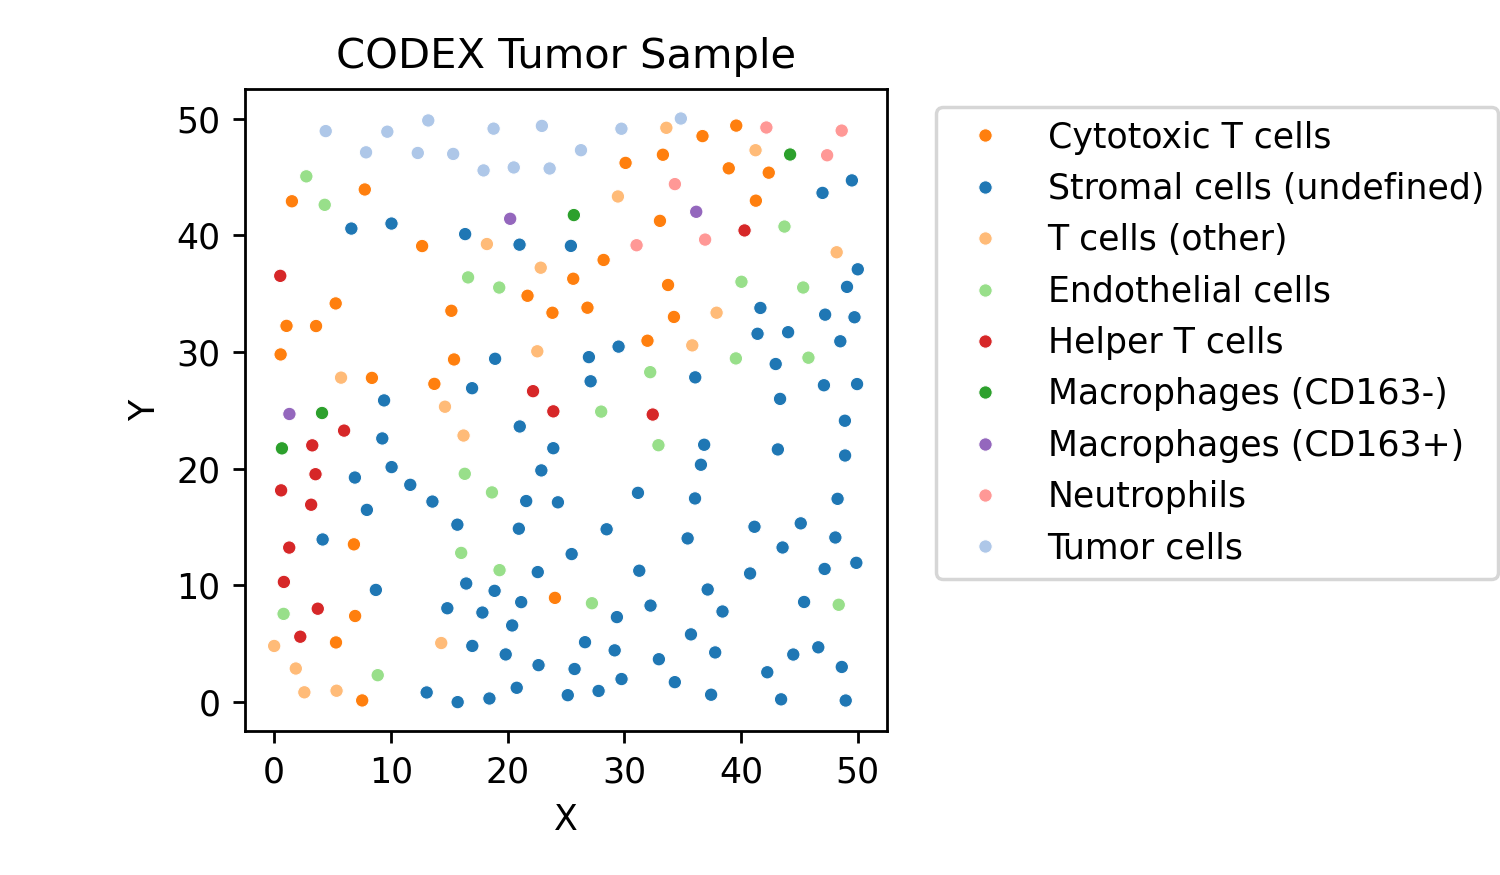
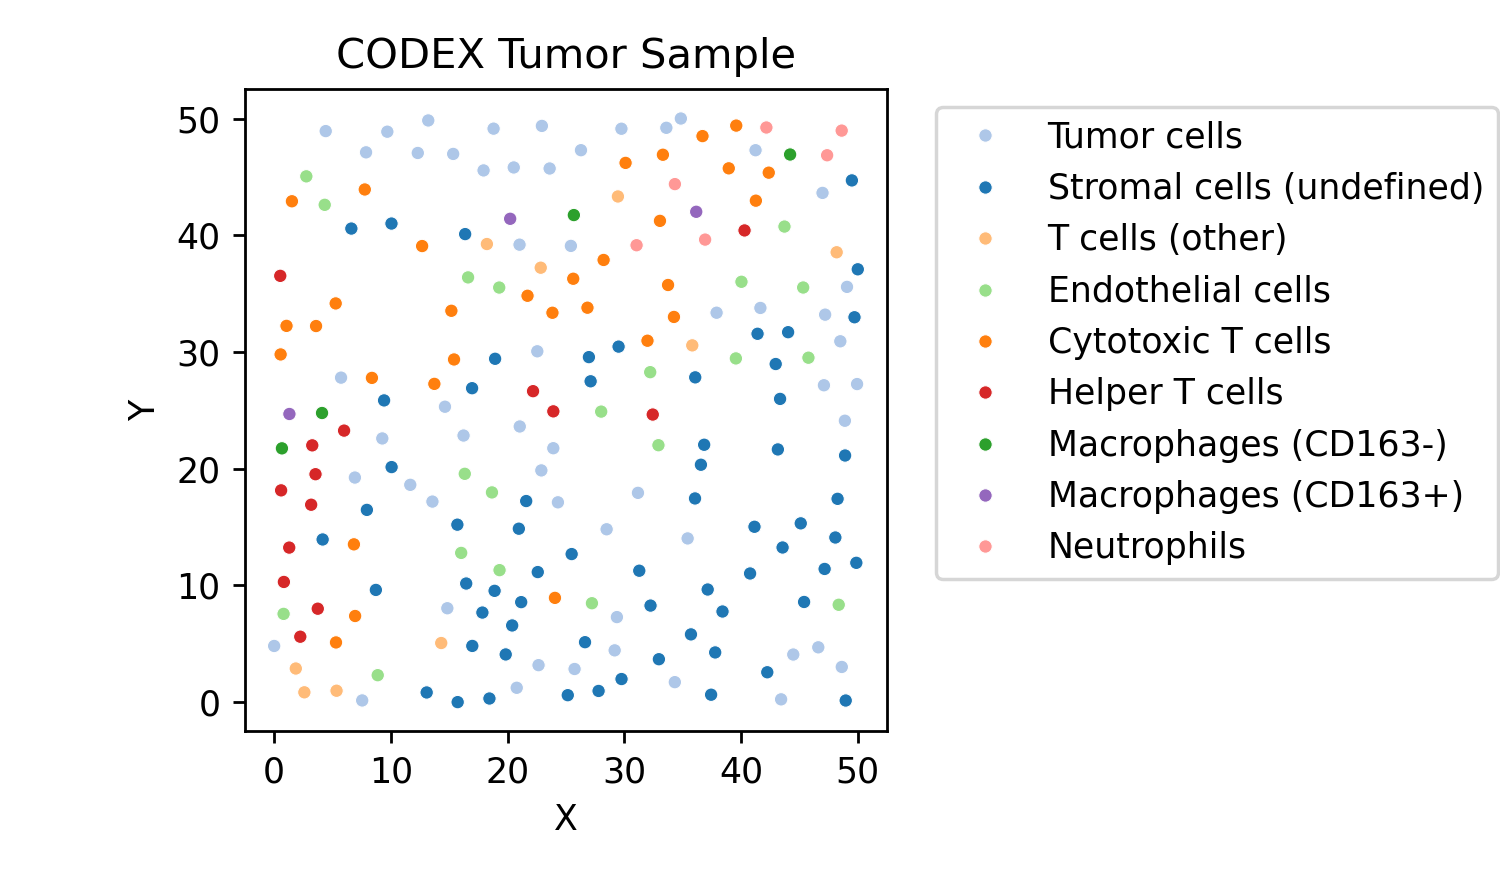
Update Figure 7 with bug fixed

diff --git a/main_figures/Fig7/Fig7.py b/main_figures/Fig7/Fig7.py
@@ -13,6 +13,13 @@ script_dir = os.path.dirname(os.path.abspath(__file__))
 
 import simspace as ss
 
+SIMSPACE_EXPECTED_VERSION = "0.4.1"
+if ss.__version__ != SIMSPACE_EXPECTED_VERSION:
+    raise RuntimeError(
+        f"Figure 7 requires SimSpace {SIMSPACE_EXPECTED_VERSION}; "
+        f"found {ss.__version__} at {ss.__file__}."
+    )
+
 Marker_list = [
     'DAPI', 'MPO', 'Ecadherin', 'PDL1', 'CD163', 'PD1', 'CD47', 
     'GAL3', 'PARP1', 'LAG3', 'CD4', 'PI3KCA', 'TIM3', 'CD68', 
@@ -35,15 +42,24 @@ sim.fit_scdesign(
     'X_centroid',
     'Y_centroid',
     seed=0,
+    family='gaussian',
 )
 
-cells = pd.read_csv(f"{script_dir}/Panel_A_B_C_data/CODEX_ref.csv")
+simulated_intensities = sim.omics.to_numpy(dtype=float)
+if not np.isfinite(simulated_intensities).all():
+    raise RuntimeError("Simulated CODEX marker intensities contain non-finite values.")
+if (simulated_intensities < 0).any():
+    raise RuntimeError("Simulated CODEX marker intensities contain negative values.")
+if not (np.abs(simulated_intensities - np.rint(simulated_intensities)) > 1e-8).any():
+    raise RuntimeError("Continuous CODEX simulation unexpectedly produced only integer values.")
+
+cells = pd.read_csv(f"{script_dir}/Panel_A_B_C_data/CODEX_meta.csv")
+cells['cell_type'] = cells['phenotype']
 cell_counts = cells['cell_type'].value_counts()
 ranked_cell_types = {cell_type: rank for rank, cell_type in enumerate(cells['cell_type'].value_counts().index, 1)}
 cells['celltype_rank'] = cells['cell_type'].map(ranked_cell_types)
 cells['x_centroid'] = 50 * (cells['centroid_x'] - cells['centroid_x'].min()) / (cells['centroid_x'].max() - cells['centroid_x'].min())
 cells['y_centroid'] = 50 * (cells['centroid_y'] - cells['centroid_y'].min()) / (cells['centroid_y'].max() - cells['centroid_y'].min())
-cells['cell_type'] = cells['cell_type'].replace('CD4+ T cells', 'Helper T cells')
 # Get unique cell types from both sim.meta['fitted_celltype'] and cells['phenotype']
 sim_celltypes = sim.meta['fitted_celltype'].unique()
 # cells_celltypes = cells['phenotype'].unique()
@@ -67,7 +83,7 @@ plt.gca().set_aspect('equal')
 plt.legend(bbox_to_anchor=(1.05, 1), loc='upper left')
 plt.title('SimSpace Simulation')
 plt.tight_layout()
-plt.show()
+plt.savefig(f'{script_dir}/Fig7_Panel_A4.png')
 
 plt.figure(figsize=(6, 3.5), dpi=250)
 sns.scatterplot(
@@ -96,13 +112,13 @@ plt.xlabel('X')
 plt.ylabel('Y')
 plt.gca().set_aspect('equal')
 plt.legend(bbox_to_anchor=(1.05, 1), loc='upper left')
-plt.title('PD1 Marker Expression')
+plt.title('PD1 Marker Intensity')
 plt.tight_layout()
 plt.savefig(f'{script_dir}/Fig7_Panel_A2.png')
 
 ss.plot.plot_gene(
     sim.meta, sim.omics['PD1'], size=14, 
-    figsize=(5,5), dpi=300, title='PD1 Marker Expression',)
+    figsize=(5,5), dpi=300, title='PD1 Marker Intensity',)
 plt.savefig(f'{script_dir}/Fig7_Panel_A3.png', bbox_inches='tight', dpi=300)
 
 
@@ -118,13 +134,18 @@ hm_data = hm_data.reindex(sorted(hm_data.columns), axis=1)
 hm_data = hm_data.reindex(sorted(hm_data.index), axis=0)
 
 # make all diagonal elements NA for hm_data
-hm_arr = hm_data.to_numpy(copy=True)
-np.fill_diagonal(hm_arr, np.nan)
+hm_plot_values = hm_data.to_numpy(copy=True)
+np.fill_diagonal(hm_plot_values, np.nan)
+hm_plot = pd.DataFrame(
+    hm_plot_values,
+    index=hm_data.index,
+    columns=hm_data.columns,
+)
 
 # plot na as gray
 plt.figure(figsize=(7,7), dpi=250)
-sns.heatmap(hm_arr, annot=True, cmap='viridis', vmin=0, fmt='.2g', 
-            mask=np.eye(hm_arr.shape[0], dtype=bool), 
+sns.heatmap(hm_plot, annot=True, cmap='viridis', vmin=0, fmt='.2g',
+            mask=np.eye(hm_plot.shape[0], dtype=bool),
             cbar_kws={'label': 'Interaction Strength'}, square=True, 
             linewidths=0, linecolor='black')
 plt.xlabel('Cell Type')

diff --git a/main_figures/Fig7/Fig7_README.md b/main_figures/Fig7/Fig7_README.md
@@ -1,54 +1,70 @@
 # Figure 7
 
-This folder contains everything needed to reproduce the code-generated panels in **Figure 7**, including panel-specific data and (when needed) panel-specific external code.
-
----
-
-## Contents
-
-- `Fig7.py`  
-  Entry script to reproduce Figure 7 (generates the figure and/or panel outputs).
-
-- `Panel_A_B_C_data/`  
-  Inputs and/or cached intermediates required for **Panel A, B, C**.
----
+This directory reproduces the code-generated panels for Figure 7. The final
+multi-panel manuscript figure is assembled manually from these outputs.
 
 ## Environment
 
-### Default (SimSpace)
-Most of Figure 7 should run in the default environment:
+Figure 7 requires SimSpace 0.4.1 because this version adds continuous-intensity
+support to the scDesign3 adapter. After the release is available, install the
+exact version in the reproducibility environment:
+
 ```bash
-# Run the line below if not creating the repro env before
-# conda env create -f ../../environment.yml
 conda activate simspace-repro
+python -m pip install simspace==0.4.1
+python -c "import simspace; print(simspace.__version__, simspace.__file__)"
 ```
 
----
+The script checks the imported SimSpace version before running. The local R
+environment must contain the scDesign3 dependencies described in the main
+reproducibility README.
 
-## Run Figure 7
+## Run
 
 From the repository root:
+
 ```bash
 python main_figures/Fig7/Fig7.py
 ```
 
-Or from this directory:
-```bash
-python Fig7.py
-```
+The script uses spatial seed 1 and molecular seed 0. It explicitly selects the
+Gaussian pathway for the continuous CODEX marker intensities; the execution
+log should report `family 'gaussian'`, assay `logcounts`, and `DT=FALSE`.
 
----
+## Inputs
 
-## Panel A B C data 
+- `Panel_A_B_C_data/simspace_fitted.json` contains the fitted spatial
+  parameters. The figure script generates a new layout on a 50-by-50 lattice
+  using four cell-type sweeps and six niche sweeps.
+- `Panel_A_B_C_data/CODEX_expr_mat.csv` contains 31 nonnegative continuous
+  protein-marker intensities for 206 cells.
+- `Panel_A_B_C_data/CODEX_meta.csv` contains the coordinates and nine phenotype
+  annotations used consistently for both model fitting and reference maps.
+- `Panel_A_B_C_data/CODEX_ref.csv` is retained as a legacy visualization table
+  but is not used by the current script because its labels differ from the
+  fitting annotations for 41 cells.
+- `Panel_A_B_C_data/perturb/ss_perturb_1.json` through
+  `ss_perturb_7.json` vary only the fitted cytotoxic-T-cell--helper-T-cell
+  affinity over 0.4, 0.7, 0.8, 0.9, 1.0, 1.2, and 1.4.
 
-### simspace_fitted_params.json
-These files are generated by SimSpace fitting process `simspace.spatial_fit()`, with the parameters as `population_size=100 generations=30, shape=(100, 100), n_group=2, n_state=9, replicate=1, seed=0`. They records the reference-based simulation results from simspace reference-based simulations. 
+The processed CODEX/PhenoCycler-Fusion data and related project scripts are
+available from <https://github.com/FenyoLab/EC_codeximaging>.
 
-### CODEX_*.csv
+## Outputs
 
-CODEX reference data for visualization and simulation. It belongs to an ongoing project which is targeted to be published at summer 2026. In details, it records the coordinates and protein marker expression level of each cell. 
+The script writes the following files into this directory:
 
-### perturb/ss_perturb_*.json
+- `Fig7_Panel_A1.png`: reference phenotype map.
+- `Fig7_Panel_A2.png`: reference PD1-intensity map.
+- `Fig7_Panel_A3.png`: simulated PD1-intensity map.
+- `Fig7_Panel_A4.png`: simulated phenotype map.
+- `Fig7_Panel_B1.png`: fitted affinity heatmap.
+- `Fig7_Panel_B2.png` and `Fig7_Panel_B3.png`: simulated and reference T-cell
+  maps.
+- `Fig7_Panel_B4.png` and `Fig7_Panel_B5.png`: simulated and reference
+  endothelial/stromal maps.
+- `Fig7_Panel_C.png`: seven affinity-perturbation layouts.
 
-These files are the perturbed SimSpace parameter files for panel C. In details, for each perturbed json file, the spatial proximity between CD4+ and CD8+ T cells are changed. 
-
+The script verifies that simulated marker intensities are finite, nonnegative,
+and continuous. Curated copies of the panel outputs used for assembly are
+stored under `example_output/Fig7/`.

diff --git a/README.md b/README.md
@@ -27,6 +27,12 @@ conda activate simspace-repro
 pip install simspace==0.4.0
 ```
 
+The archived workflows use SimSpace 0.4.0 unless a figure-specific README
+states otherwise. Figure 7 requires SimSpace 0.4.1 for continuous CODEX marker
+intensities; install that version before running `main_figures/Fig7/Fig7.py`,
+then reinstall 0.4.0 for supplementary scripts that enforce the archived
+version.
+
 ### 2) Setting Up the R Environment for Omics Simulation
 
 SimSpace supports external omics profile simulation via R-based tools, including **scDesign3**, **SRTsim**, and **splatter**. These tools are optional but recommended if you want to simulate gene expression profiles in addition to spatial patterns.
